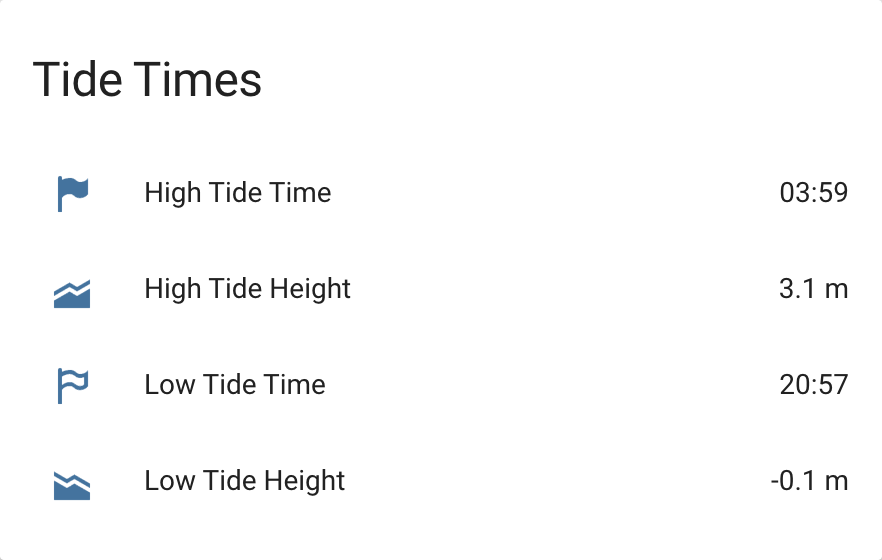
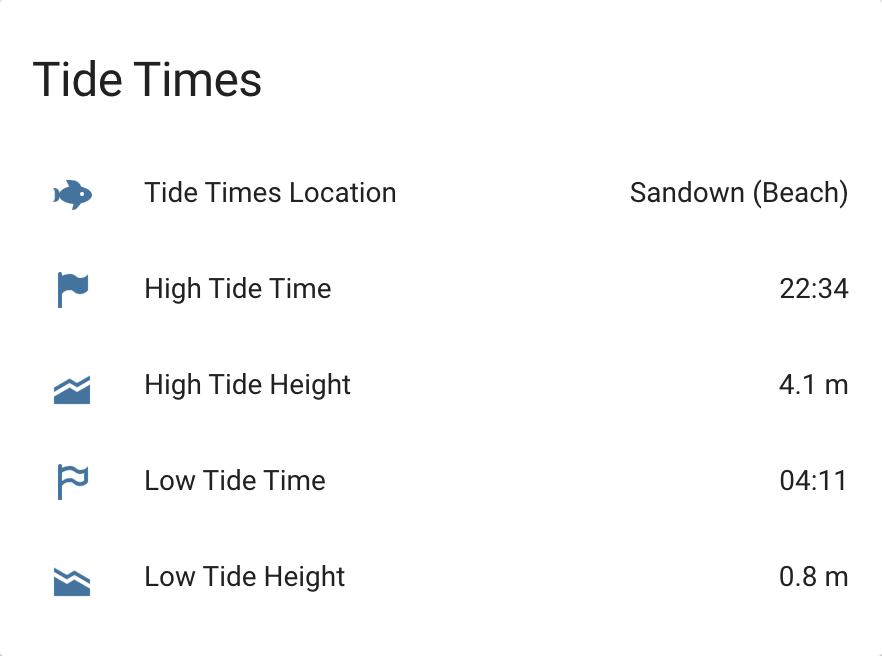
New Tide Times Location sensor and bug fixes - thanks @eximo84!

diff --git a/tides.py b/tides.py
@@ -7,6 +7,10 @@ from bs4 import BeautifulSoup
 raw_html = requests.get(URL).text
 data = BeautifulSoup(raw_html, 'html.parser')
 
+tl = (data.select('h2')[1])
+tl = (tl.encode_contents())
+tl = tl.rstrip(' <span id="displayDate"></span>')
+
 if (data.select('td')[0].text[0:5]) == "High" or (data.select('td')[0].text[0:5]) == "Low":
     hl0 = (data.select('td')[0].text[0:5])
     hl = 1
@@ -53,7 +57,8 @@ else:
 		th5 = (data.select('td')[22].text[0:4])
 		th5 = th5.rstrip()
 		text_file = open("%s/tidestore.py" % LOCATION, "w")
-		text_file.write("hl = '%s'" % hl)
+		text_file.write("tl = '%s'" % tl)
+		text_file.write("\nhl = '%s'" % hl)
 		text_file.write("\nhl0 = '%s'" % hl0)
 		text_file.write("\nhl1 = '%s'" % hl1)
 		text_file.write("\nhl2 = '%s'" % hl2)
@@ -75,7 +80,8 @@ else:
 		text_file.close()
 		time.sleep(150)
 		text_file = open("%s/tidestorex.py" % LOCATION, "w")
-		text_file.write("hl = '%s'" % hl)
+		text_file.write("tl = '%s'" % tl)
+		text_file.write("\nhl = '%s'" % hl)
 		text_file.write("\nhlx0 = '%s'" % hl0)
 		text_file.write("\nhlx1 = '%s'" % hl1)
 		text_file.write("\nhlx2 = '%s'" % hl2)
@@ -120,7 +126,8 @@ else:
 		th5 = (data.select('td')[20].text[0:4])
 		th5 = th5.rstrip()
 		text_file = open("%s/tidestore.py" % LOCATION, "w")
-		text_file.write("hl = '%s'" % hl)
+		text_file.write("tl = '%s'" % tl)
+		text_file.write("\nhl = '%s'" % hl)
 		text_file.write("\nhl0 = '%s'" % hl0)
 		text_file.write("\nhl1 = '%s'" % hl1)
 		text_file.write("\nhl2 = '%s'" % hl2)
@@ -142,7 +149,8 @@ else:
 		text_file.close()
 		time.sleep(150)
 		text_file = open("%s/tidestorex.py" % LOCATION, "w")
-		text_file.write("hl = '%s'" % hl)
+		text_file.write("tl = '%s'" % tl)
+		text_file.write("\nhl = '%s'" % hl)
 		text_file.write("\nhlx0 = '%s'" % hl0)
 		text_file.write("\nhlx1 = '%s'" % hl1)
 		text_file.write("\nhlx2 = '%s'" % hl2)
@@ -194,7 +202,8 @@ else:
 		th6 = (data.select('td')[25].text[0:4])
 		th6 = th6.rstrip()
 		text_file = open("%s/tidestore.py" % LOCATION, "w")
-		text_file.write("hl = '%s'" % hl)
+		text_file.write("tl = '%s'" % tl)
+		text_file.write("\nhl = '%s'" % hl)
 		text_file.write("\nhl0 = '%s'" % hl0)
 		text_file.write("\nhl1 = '%s'" % hl1)
 		text_file.write("\nhl2 = '%s'" % hl2)
@@ -219,7 +228,8 @@ else:
 		text_file.close()
 		time.sleep(150)
 		text_file = open("%s/tidestorex.py" % LOCATION, "w")
-		text_file.write("hl = '%s'" % hl)
+		text_file.write("tl = '%s'" % tl)
+		text_file.write("\nhl = '%s'" % hl)
 		text_file.write("\nhlx0 = '%s'" % hl0)
 		text_file.write("\nhlx1 = '%s'" % hl1)
 		text_file.write("\nhlx2 = '%s'" % hl2)
@@ -269,7 +279,8 @@ else:
 		th6 = (data.select('td')[23].text[0:4])
 		th6 = th6.rstrip()
 		text_file = open("%s/tidestore.py" % LOCATION, "w")
-		text_file.write("hl = '%s'" % hl)
+		text_file.write("tl = '%s'" % tl)
+		text_file.write("\nhl = '%s'" % hl)
 		text_file.write("\nhl0 = '%s'" % hl0)
 		text_file.write("\nhl1 = '%s'" % hl1)
 		text_file.write("\nhl2 = '%s'" % hl2)
@@ -294,7 +305,8 @@ else:
 		text_file.close()
 		time.sleep(150)
 		text_file = open("%s/tidestorex.py" % LOCATION, "w")
-		text_file.write("hl = '%s'" % hl)
+		text_file.write("tl = '%s'" % tl)
+		text_file.write("\nhl = '%s'" % hl)
 		text_file.write("\nhlx0 = '%s'" % hl0)
 		text_file.write("\nhlx1 = '%s'" % hl1)
 		text_file.write("\nhlx2 = '%s'" % hl2)

diff --git a/tideupdate.py b/tideupdate.py
@@ -73,7 +73,7 @@ elif hl == "4":
 		from datetime import datetime, time
 		now = datetime.now()
 		now_time = now.time()
-		if now_time >= time(0,00) and now_time <= time(6,02):
+		if now_time >= time(0,00) and now_time <= time(6,2):
 			if datetime.strptime(ttx4, FMT) > datetime.strptime(timenow, FMT):
 				nexthightide = ttx4
 				nexthighm = thx4
@@ -105,7 +105,7 @@ elif hl == "4":
 		from datetime import datetime, time
 		now = datetime.now()
 		now_time = now.time()
-		if now_time >= time(0,00) and now_time <= time(6,02):
+		if now_time >= time(0,00) and now_time <= time(6,2):
 			if datetime.strptime(ttx4, FMT) > datetime.strptime(timenow, FMT):
 				nextlowtide = ttx4
 				nextlowm = thx4
@@ -137,6 +137,9 @@ else:
 	# Tide data not present or incorrect
 	print ("ERROR: No tide data present.")
 
+tidelocation = tl
+
+print ("Tide Times Location: %s" % tidelocation)
 print ("Next High Tide: %s" % nexthightide)
 print ("Next High Tide Height: %s" % nexthighm)
 print ("Next Low Tide: %s" % nextlowtide)

diff --git a/tidestorex.py b/tidestorex.py
@@ -1,19 +1,23 @@
-hl = '3'
-hlx0 = 'High'
-hlx1 = 'Low'
-hlx2 = 'High'
-hlx3 = 'Low'
-hlx4 = 'High'
-hlx5 = 'Low'
-ttx0 = '06:09'
-ttx1 = '11:48'
-ttx2 = '18:41'
-ttx3 = '00:19'
-ttx4 = '07:21'
-ttx5 = '13:03'
-thx0 = '3.0'
-thx1 = '0.3'
-thx2 = '2.7'
-thx3 = '0.2'
-thx4 = '3.0'
-thx5 = '0.2'
+tl = 'Sandown (Beach)'
+hl = '4'
+hlx0 = 'Low'
+hlx1 = 'High'
+hlx2 = 'Low'
+hlx3 = 'High'
+hlx4 = 'Low'
+hlx5 = 'High'
+hlx6 = 'Low'
+ttx0 = '03:22'
+ttx1 = '10:07'
+ttx2 = '15:49'
+ttx3 = '22:34'
+ttx4 = '04:11'
+ttx5 = '10:52'
+ttx6 = '16:36'
+thx0 = '1.0'
+thx1 = '4.2'
+thx2 = '0.8'
+thx3 = '4.1'
+thx4 = '0.8'
+thx5 = '4.3'
+thx6 = '0.6'

diff --git a/tidestore.py b/tidestore.py
@@ -1,19 +1,23 @@
-hl = '3'
-hl0 = 'High'
-hl1 = 'Low'
-hl2 = 'High'
-hl3 = 'Low'
-hl4 = 'High'
-hl5 = 'Low'
-tt0 = '06:09'
-tt1 = '11:48'
-tt2 = '18:41'
-tt3 = '00:19'
-tt4 = '07:21'
-tt5 = '13:03'
-th0 = '3.0'
-th1 = '0.3'
-th2 = '2.7'
-th3 = '0.2'
-th4 = '3.0'
-th5 = '0.2'
+tl = 'Sandown (Beach)'
+hl = '4'
+hl0 = 'Low'
+hl1 = 'High'
+hl2 = 'Low'
+hl3 = 'High'
+hl4 = 'Low'
+hl5 = 'High'
+hl6 = 'Low'
+tt0 = '03:22'
+tt1 = '10:07'
+tt2 = '15:49'
+tt3 = '22:34'
+tt4 = '04:11'
+tt5 = '10:52'
+tt6 = '16:36'
+th0 = '1.0'
+th1 = '4.2'
+th2 = '0.8'
+th3 = '4.1'
+th4 = '0.8'
+th5 = '4.3'
+th6 = '0.6'

diff --git a/README.md b/README.md
@@ -24,10 +24,11 @@ Set up a cronjob `crontab -e` at 06:00 (as Met Office does not update website at
 Test it! Run `python tideupdate.py` and check for an output like this:
 
 ```
-Next High Tide: 03:18
-Next High Tide Height: 3.7
-Next Low Tide: 20:08
-Next Low Tide Height: 1.2
+Tide Times Location: Sandown (Beach)
+Next High Tide: 22:34
+Next High Tide Height: 4.1
+Next Low Tide: 04:11
+Next Low Tide Height: 0.8
 ```
 
 ## Intergration with Home Assistant
@@ -42,6 +43,10 @@ Example sensor setup (using the [Command Line sensor](https://home-assistant.io/
 
 ```
 - platform: command_line
+  name: Tide Times Location
+  command: "python /home/hass/TideTimes/tideupdate.py | grep 'Tide Times Location:' | sed 's/^.*: //'"
+
+- platform: command_line
   name: High Tide Time
   command: "python /home/hass/TideTimes/tideupdate.py | grep 'Next High Tide:' | sed 's/^.*: //'"
 
@@ -49,24 +54,22 @@ Example sensor setup (using the [Command Line sensor](https://home-assistant.io/
   name: High Tide Height
   command: "python /home/hass/TideTimes/tideupdate.py | grep 'Next High Tide Height:' | sed 's/^.*: //'"
   unit_of_measurement: "m"
-  icon: mdi:elevation-rise
 
 - platform: command_line
   name: Low Tide Time
   command: "python /home/hass/TideTimes/tideupdate.py | grep 'Next Low Tide:' | sed 's/^.*: //'"
-  icon: mdi:flag-variant
 
 - platform: command_line
   name: Low Tide Height
   command: "python /home/hass/TideTimes/tideupdate.py | grep 'Next Low Tide Height:' | sed 's/^.*: //'"
   unit_of_measurement: "m"
-  icon: mdi:elevation-decline
 ```
 
 Example group (to get the sensors in a box of their own):
 
 ```
 Tide Times:
+  - sensor.tide_times_loaction
   - sensor.high_tide_time
   - sensor.high_tide_height
   - sensor.low_tide_time
@@ -76,6 +79,9 @@ Tide Times:
 Example customize (for cool icons):
 
 ```
+sensor.tide_times_loaction:
+  icon: mdi:fish
+
 sensor.high_tide_time:
   icon: mdi:flag-variant
 
